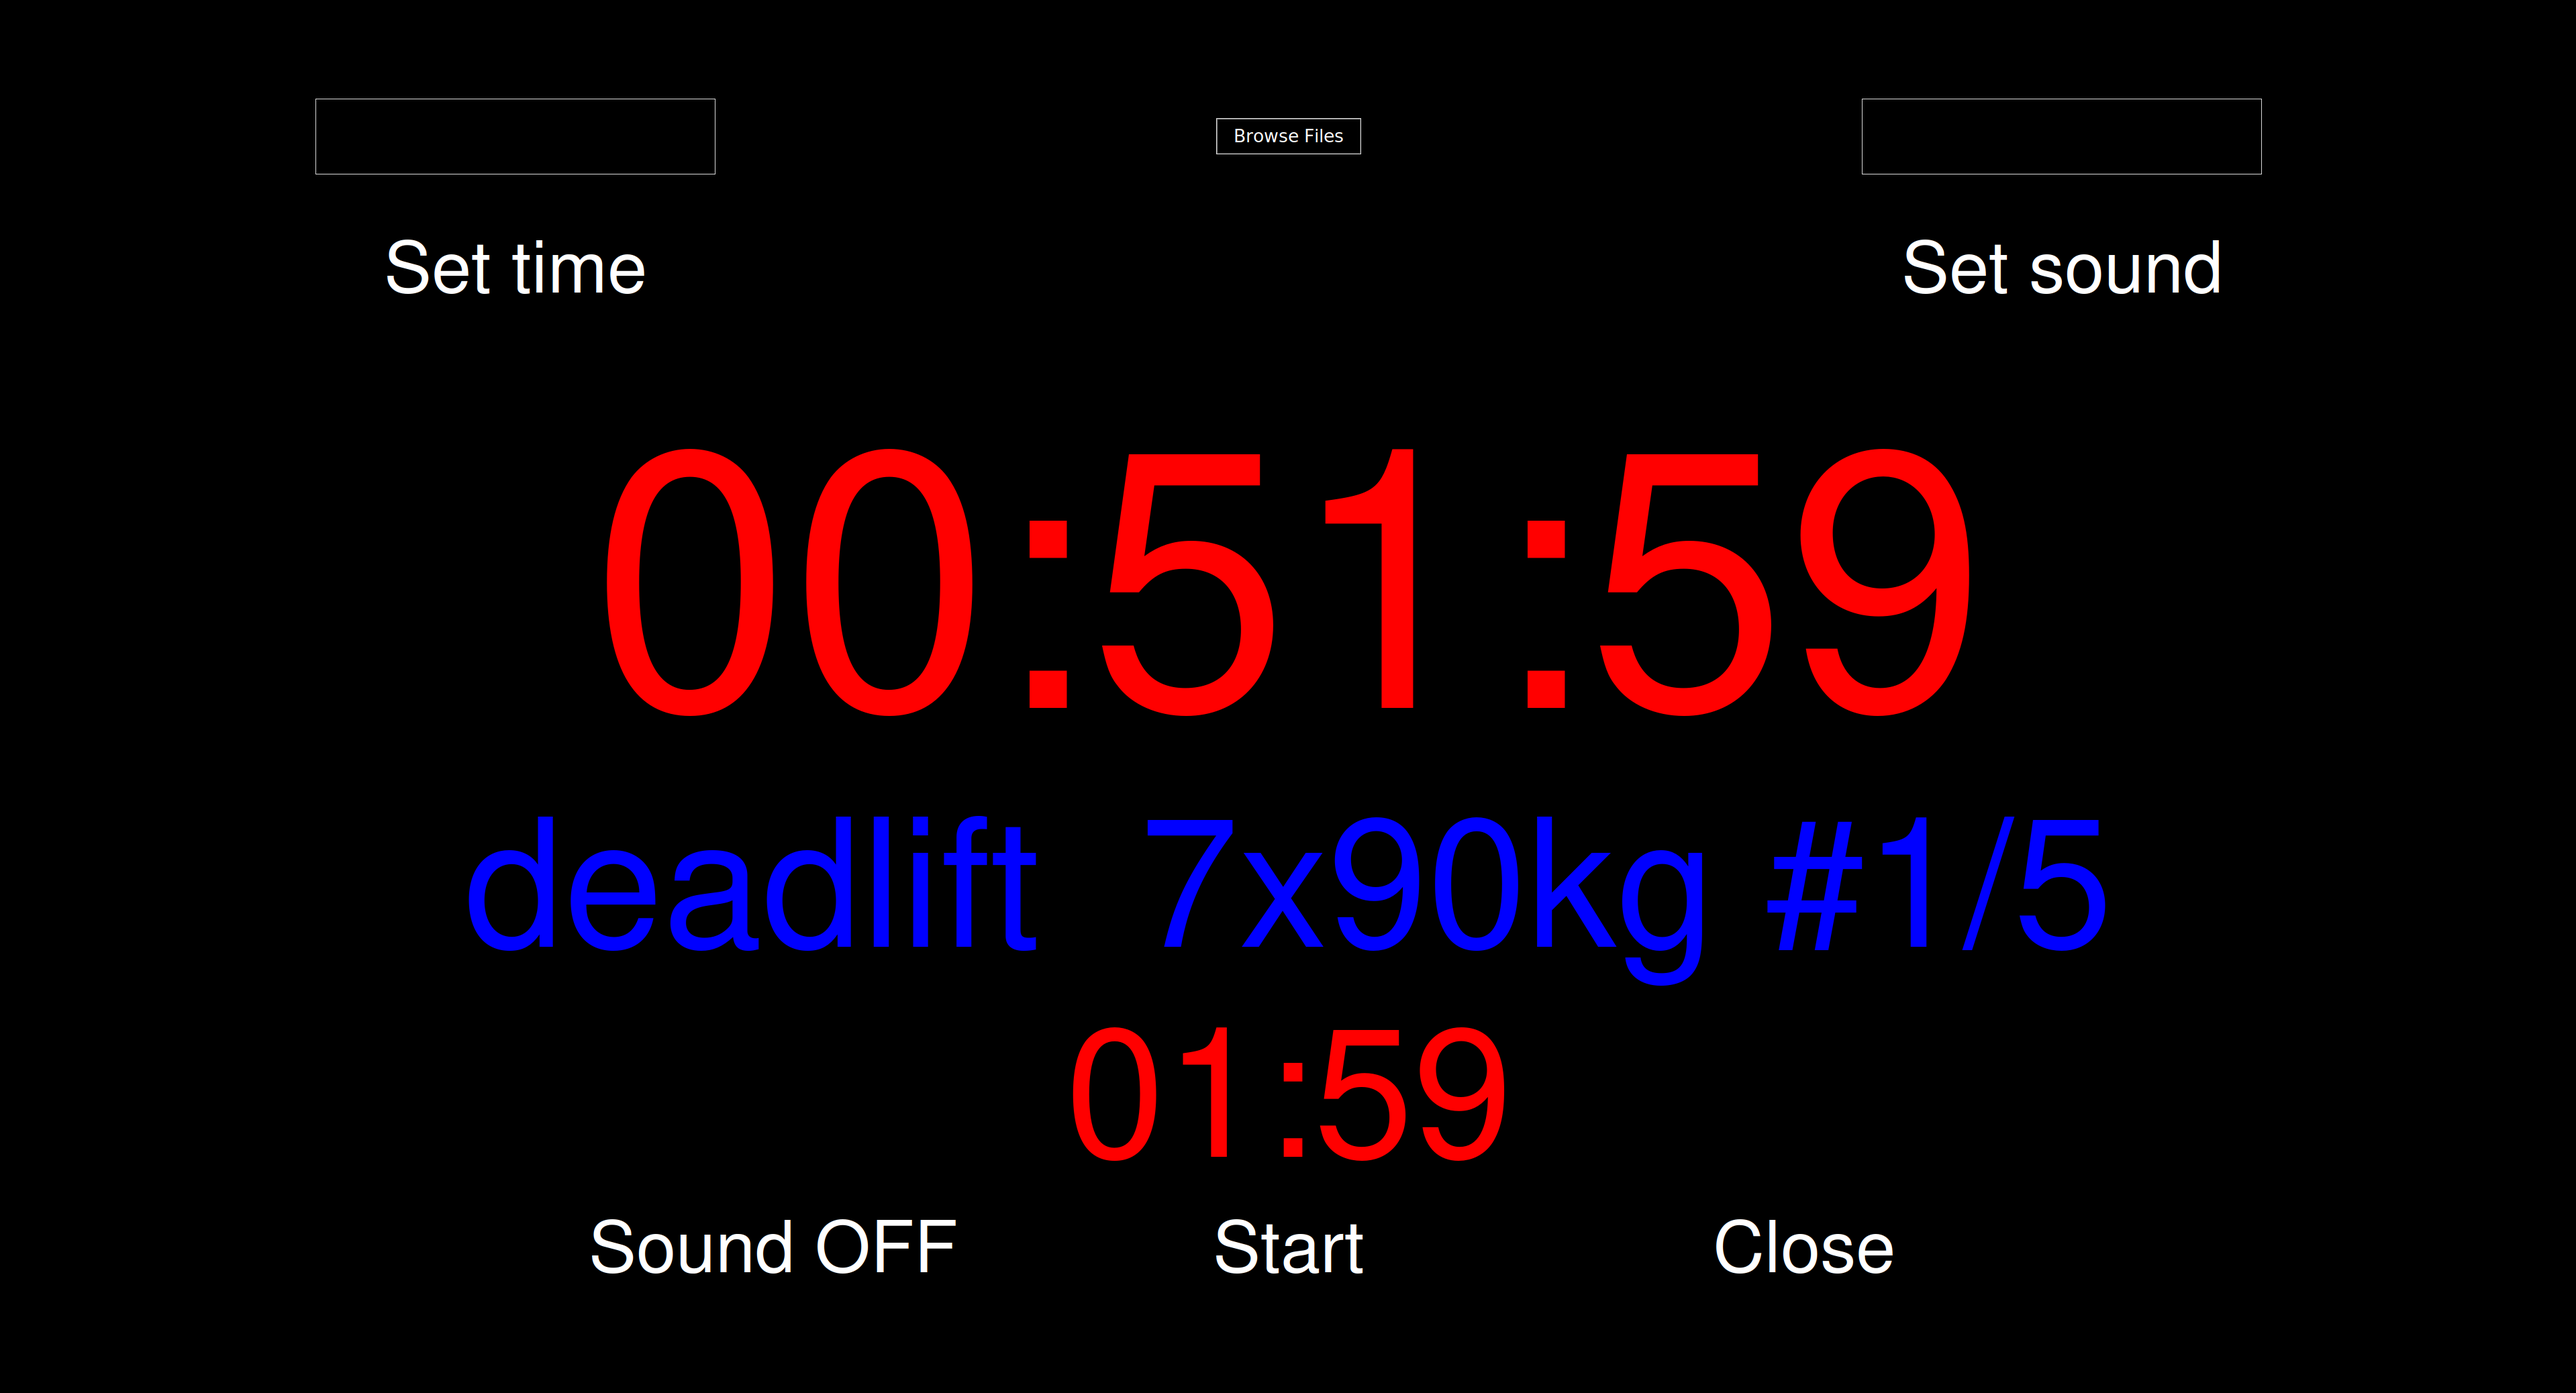
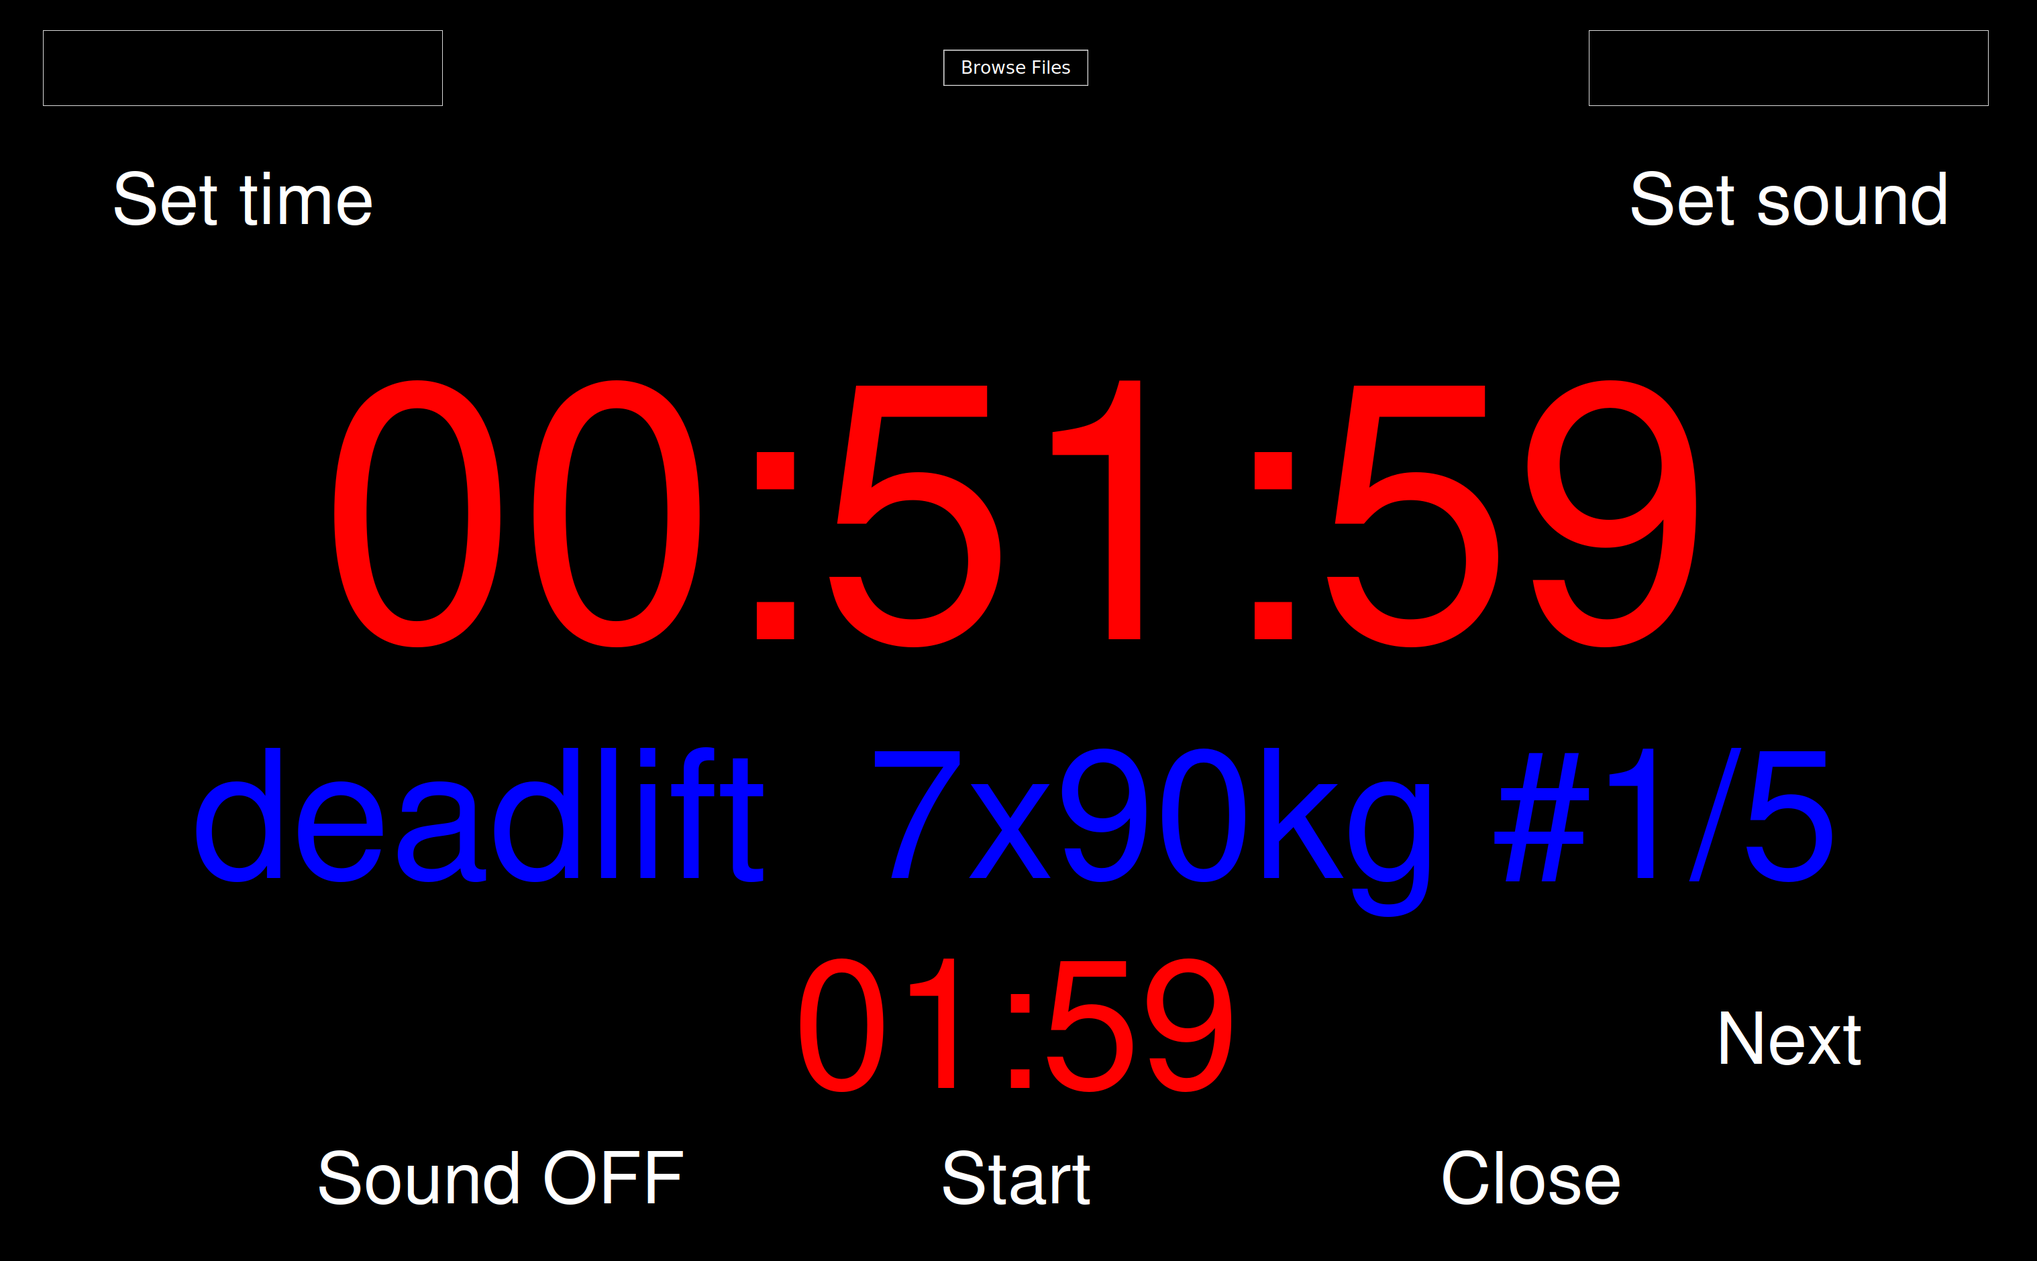
included next button to skip intervals

diff --git a/countdown.py b/countdown.py
@@ -49,12 +49,14 @@ class CountdownApp(tk.Frame):
         ### set time display
         self.interval_display = Label(self.master, text="", font=(self.font_type, self.font_size_tt_display), borderwidth=2, fg=self.font_color_tt_display, bg=self.color_background)
 
-        ### start countdown button
-        self.start_button = Button(self.master, text="Start", font=(self.font_type, self.font_size_button), bg=self.color_background, fg=self.font_color_text, borderwidth=0, highlightthickness=0, command=self.start)
-        ### close window button
-        self.close_button = Button(self.master, text="Close", font=(self.font_type, self.font_size_button), bg=self.color_background, fg=self.font_color_text, borderwidth=0, highlightthickness=0, command=self.master.quit)
         ### turn sound ON/OFF
         self.sound_button = Button(self.master, text="Sound OFF", font=(self.font_type, self.font_size_button), bg=self.color_background, fg=self.font_color_text, borderwidth=0, highlightthickness=0, command=self.sound)
+        ### start countdown button
+        self.start_button = Button(self.master, text="Start", font=(self.font_type, self.font_size_button), bg=self.color_background, fg=self.font_color_text, borderwidth=0, highlightthickness=0, command=self.start)
+        ### next button
+        self.next_button = Button(self.master, text="Next", font=(self.font_type, self.font_size_button), bg=self.color_background, fg=self.font_color_text, borderwidth=0, highlightthickness=0, command=self.next)
+        ### close window button
+        self.close_button = Button(self.master, text="Close", font=(self.font_type, self.font_size_button), bg=self.color_background, fg=self.font_color_text, borderwidth=0, highlightthickness=0, command=self.master.quit)
 
         ### browse for timetable file
         self.browse_file = Button(self.master,text = "Browse Files", bg=self.color_background, fg=self.font_color_text,command = self.browseFiles)  
@@ -129,7 +131,7 @@ class CountdownApp(tk.Frame):
         self.time_string = self.time_format(self.time)
         
         if (self.set_time - self.time) % self.sound_frequency == 0 and (self.set_time - self.time) != 0 and self.sound_on:
-            self.play_sound(0.2, 600) 
+            self.play_sound(self.sound_duration, 600) 
         
         self.time_display.configure(text=self.time_string, fg = self.font_color_time_display)
 
@@ -138,11 +140,17 @@ class CountdownApp(tk.Frame):
     def start(self):
 
         self.start_button.configure(text="Stop", command=lambda: self.stop())
-        if self.sound_on:
-            self.play_sound(0.2, 600)
+        self.play_sound(self.sound_duration, 600)
 
         self.app_running = True
         self.update_time()
+
+
+    ### next interval
+    def next(self):
+        
+        if self.tt_loaded:
+            self.time = self.time - self.interval_time + 1
 
 
     ### turn sound on and off
@@ -155,7 +163,7 @@ class CountdownApp(tk.Frame):
         elif self.sound_on == False:
             self.sound_button.configure(text="Sound ON")
             self.sound_on = True
-            self.play_sound(0.2, 600)
+            self.play_sound(self.sound_duration, 600)
 
 
     ### set sound signal frequency
@@ -166,7 +174,8 @@ class CountdownApp(tk.Frame):
 
     ### play sound
     def play_sound(self, duration, frequency):
-        os.system('play -n synth %s sin %s' % (duration, frequency))
+        if self.sound_on:
+            os.system('play -n synth %s sin %s' % (duration, frequency))
 
 
     ### update time 
@@ -195,10 +204,10 @@ class CountdownApp(tk.Frame):
                     ### string for timetable display
                     tt_string = str(self.tt_list[idx][0]+" "+self.tt_list[idx][1]+" #"+ self.tt_list[idx][2])
                     ### set time
-                    self.interval_time = self.tt_list[idx][3]
+                    self.interval_time = self.interval_time_total = self.tt_list[idx][3]
                     ### update timetable display
                     self.timetable_display.configure(text=tt_string, fg=self.font_color_tt_display)
-                    self.play_sound(0.2, 600)
+                    self.play_sound(self.sound_duration, 600)
 
                 ### format interval time to hh:mm:ss
                 self.interval_time_string = str(self.time_format(self.interval_time))
@@ -246,6 +255,9 @@ class CountdownApp(tk.Frame):
             ### update timetable display
             self.timetable_display.configure(text=tt_string, fg=self.font_color_tt_display)
 
+        ### display next button
+        self.next_button.place(relx=0.8, rely=0.8, anchor=CENTER)
+
 
     ### definitions
     def definitions(self):
@@ -261,6 +273,7 @@ class CountdownApp(tk.Frame):
         self.window_resolution = "2500x1400"
         self.font_type = "Helvetica"
         self.sound_frequency = 3600
+        self.sound_duration = 0.2
         self.tt_loaded = False
 
 
